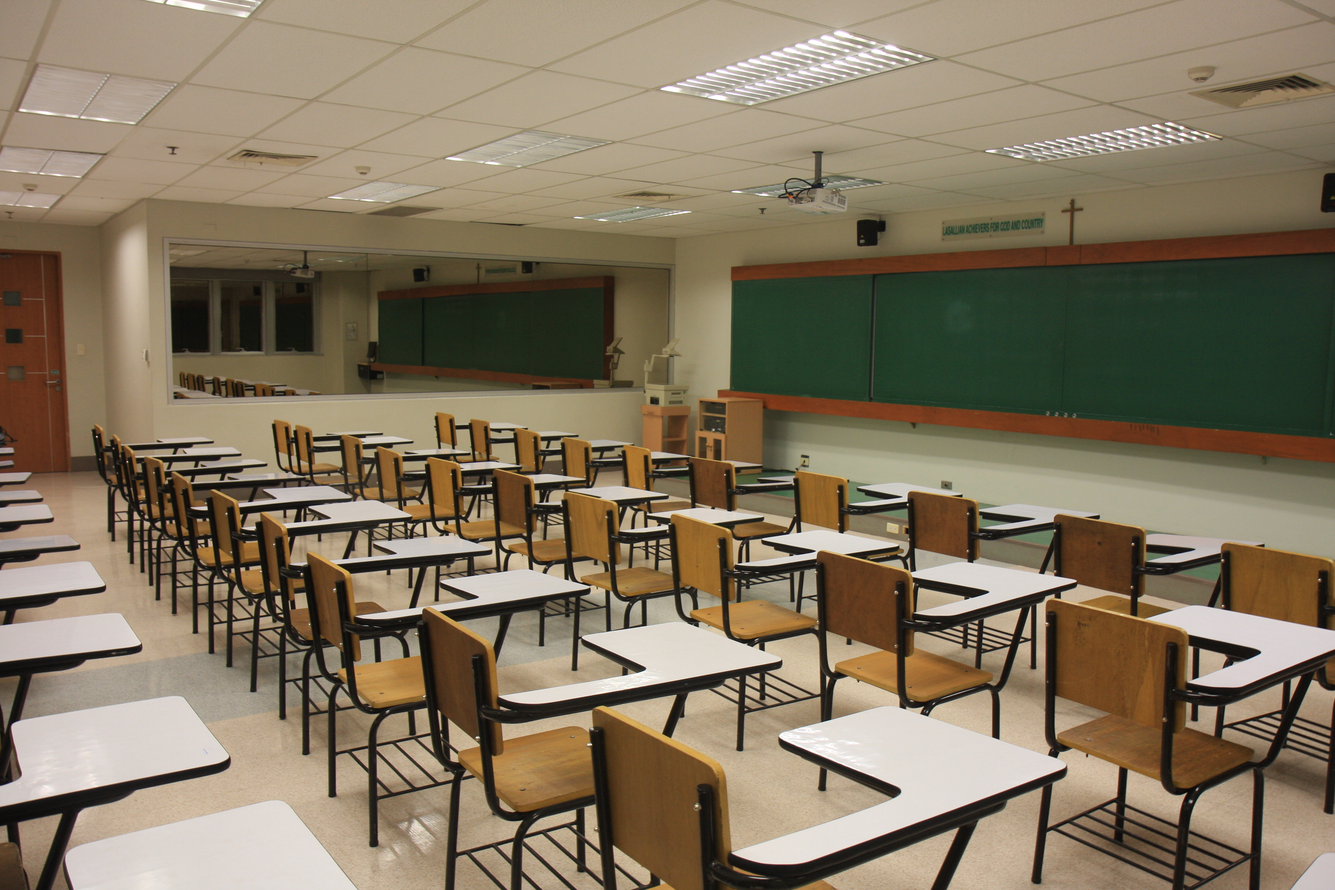
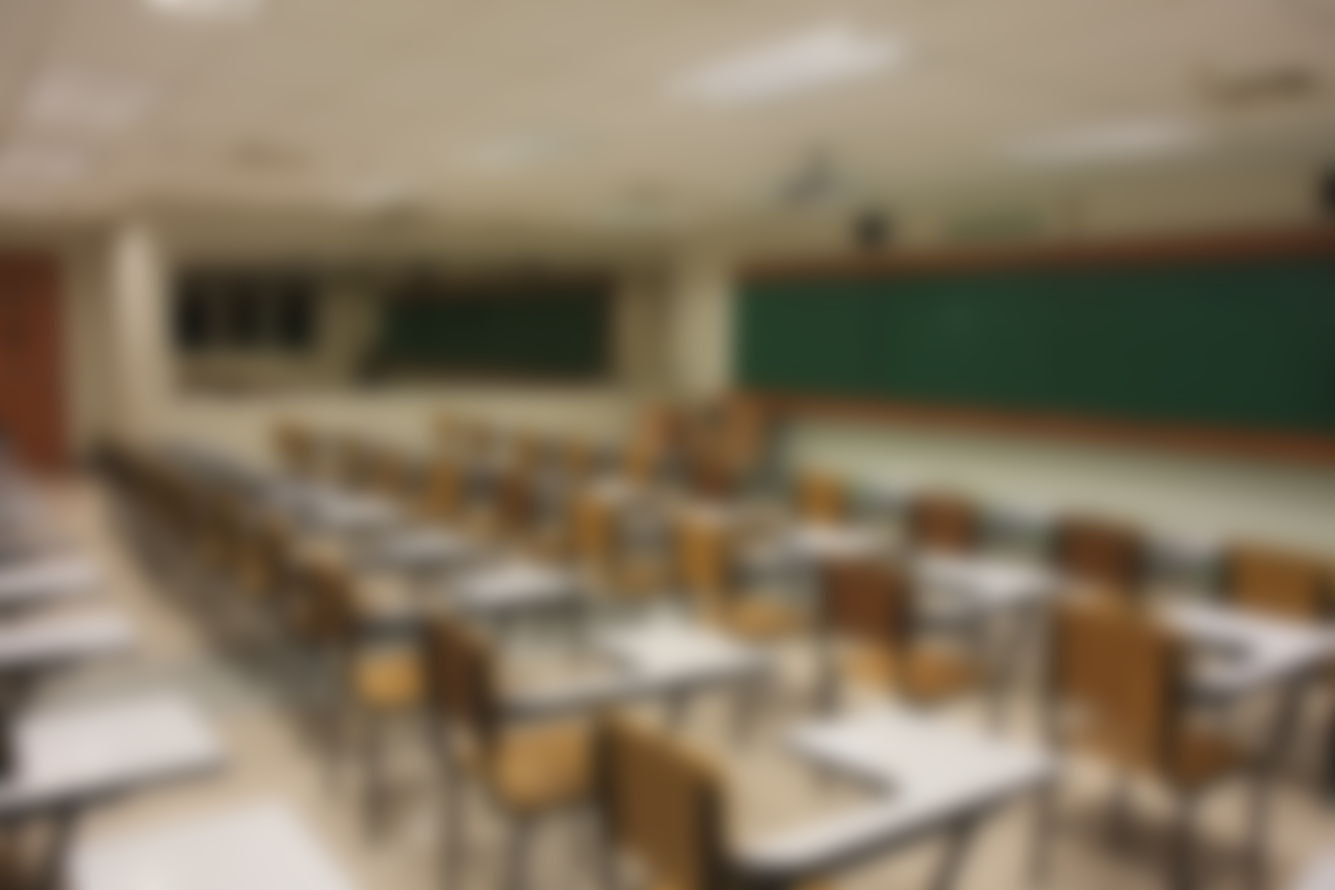
Recadrement de l'image de fond

diff --git a/style/styleAcceuil.css b/style/styleAcceuil.css
@@ -1,4 +1,13 @@
-body
+*
 {
-	background-image: url("images/desk-paper.jpg");
+	margin : 0;
+}
+
+.partIndex1
+{
+	padding : 10px;
+	width : 100%;
+	height : 1200px;
+	background-image: url("images/classroom.jpeg");
+	background-size : 100% 1200px;
 }

diff --git a/html/acceuil.php b/html/acceuil.php
@@ -11,15 +11,16 @@
     </head>
 
 	<body>
-		<div class="presentationIndex">
-			<h2> Schooly, le nec plus ultra des études collectives </h2>
-			<h3> Schooly est un site gratuit et facile d'accès permettant de gérer la vie d'une classe </h3>
+		<div class="partIndex1">
+			<div class="presentationIndex">
+				<h2> Schooly, le nec plus ultra des études collectives </h2>
+				<h3> Schooly est un site gratuit et facile d'accès permettant de gérer la vie d'une classe </h3>
 
+			</div>
+			<div>
+				<h2> Connexion ou inscrpition </h2>
+			</div>
 		</div>
-		<div>
-			<h2> Connexion ou inscrpition </h2>
-		</div>
-		
 	</body>
 
 </html>
